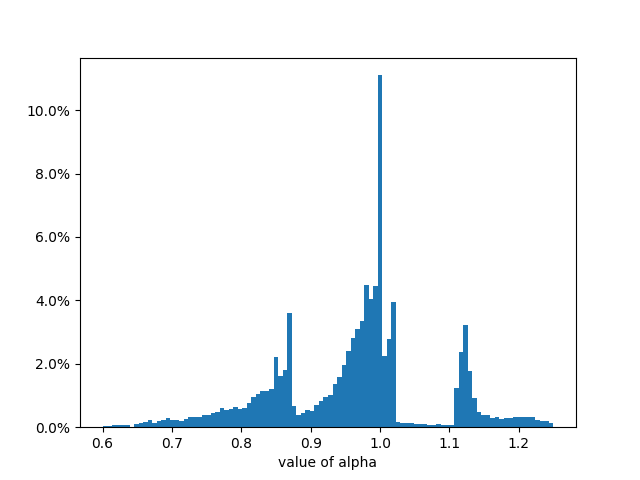
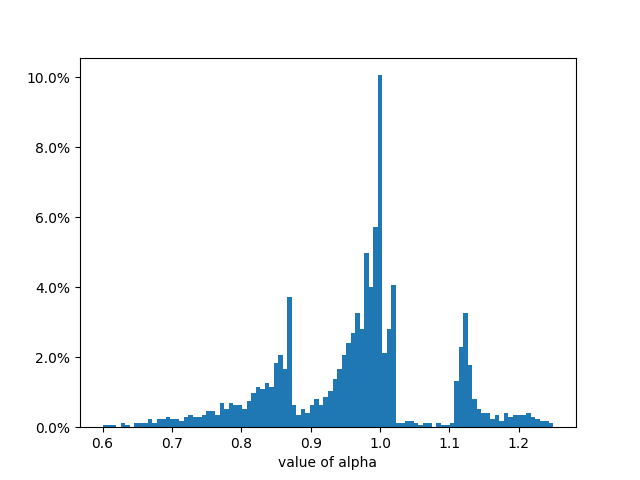
update

diff --git a/Ex3_square_harmonic_adaptive/check_dist_n2.py b/Ex3_square_harmonic_adaptive/check_dist_n2.py
@@ -56,7 +56,7 @@ for i in range(len(pt_xlist)):
       sub_alpha.append(alpha_list[i])
 
 
-plt.hist(alpha_list,bins=100,range=[0.6,1.25],weights=np.ones(len(alpha_list))/len(alpha_list))
+plt.hist(sub_alpha,bins=100,range=[0.6,1.25],weights=np.ones(len(sub_alpha))/len(sub_alpha))
 plt.gca().yaxis.set_major_formatter(PercentFormatter(1))
 plt.xlabel('value of alpha')
 plt.savefig(f"figures/distribution_subalpha_n{n}_N{N}.png")

diff --git a/Ex3_square_harmonic_adaptive/check_dist_n4.py b/Ex3_square_harmonic_adaptive/check_dist_n4.py
@@ -56,7 +56,7 @@ for i in range(len(pt_xlist)):
       sub_alpha.append(alpha_list[i])
 
 
-plt.hist(alpha_list,bins=100,range=[0.6,1.25],weights=np.ones(len(alpha_list))/len(alpha_list))
+plt.hist(sub_alpha,bins=100,range=[0.6,1.25],weights=np.ones(len(sub_alpha))/len(sub_alpha))
 plt.gca().yaxis.set_major_formatter(PercentFormatter(1))
 plt.xlabel('value of alpha')
 plt.savefig(f"figures/distribution_subalpha_n{n}_N{N}.png")
